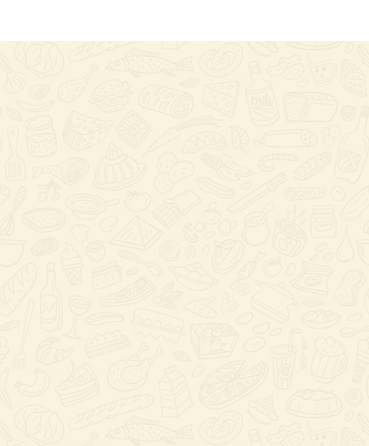
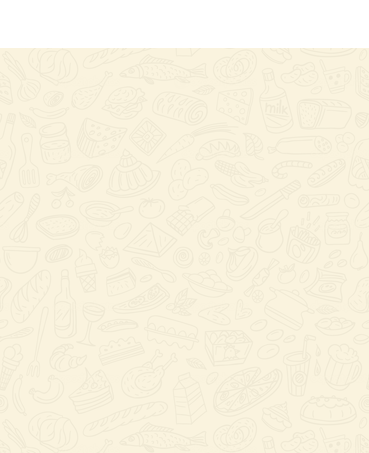
- landing done

Changed region(s): [[0.0, 0.0874, 1.0, 0.1166]]

diff --git a/gastro-portal/src/main/webapp/css/custom.css b/gastro-portal/src/main/webapp/css/custom.css
@@ -117,23 +117,23 @@ body {
 }
 
 .index .landing1 {
-    height: 446px;
+    height: 453px;
     background: url("../img/landing-bg-1.png") right 0 repeat-x;
     display: table-cell;
     width: auto;
 }
 
 .index .landing2 {
-    max-height: 446px;
-    width: 917px;
+    max-height: 453px;
+    width: 905px;
     background: url("../img/landing-bg-2.png") center top no-repeat;
     display: table-cell;
 }
 
 .index .landing2 div {
-    height: 446px;
+    height: 453px;
     text-align: center;
-    padding-top: 148px;
+    padding-top: 155px;
 }
 
 .index .landing2 h1 {
@@ -143,12 +143,12 @@ body {
 
 .index .landing2 p {
     font-size: 16px;
-    padding: 10px 60px 20px 60px;
+    padding: 10px 70px 10px 70px;
 }
 
 .index .landing3 {
     width: auto;
-    height: 446px;
+    height: 453px;
     background: url("../img/landing-bg-3.png") left 0 repeat-x;
     display: table-cell;
 }
